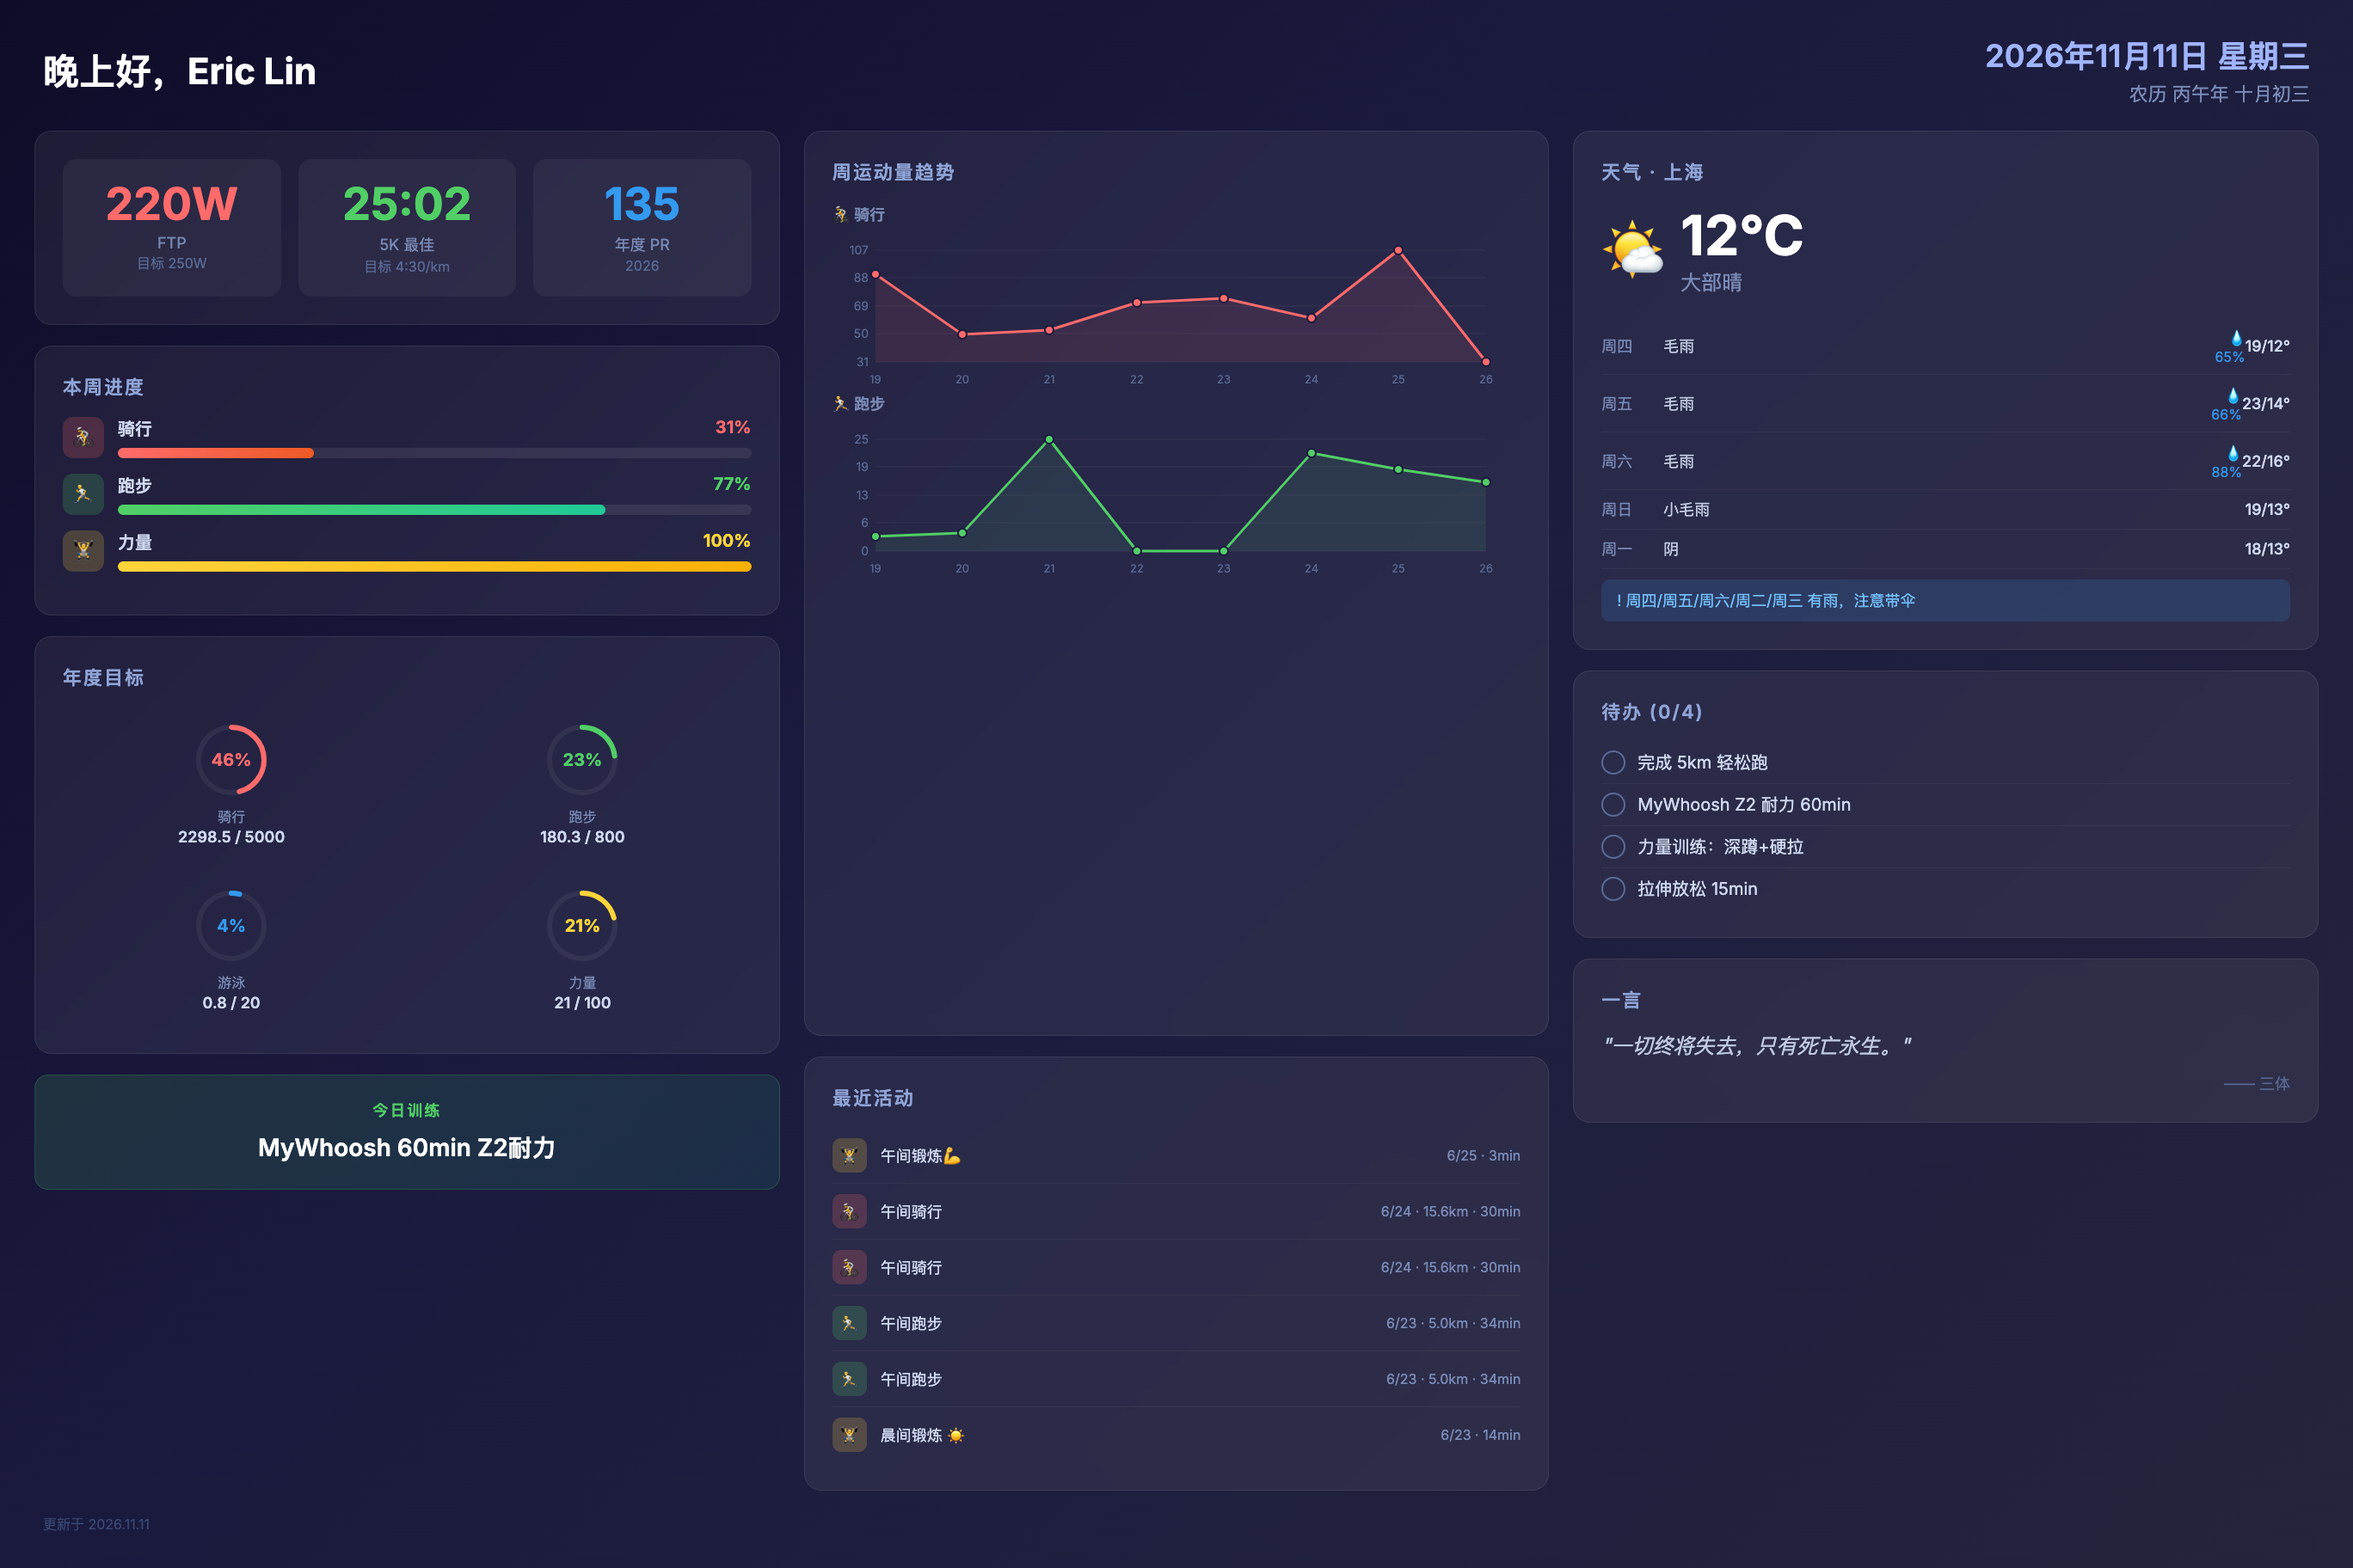
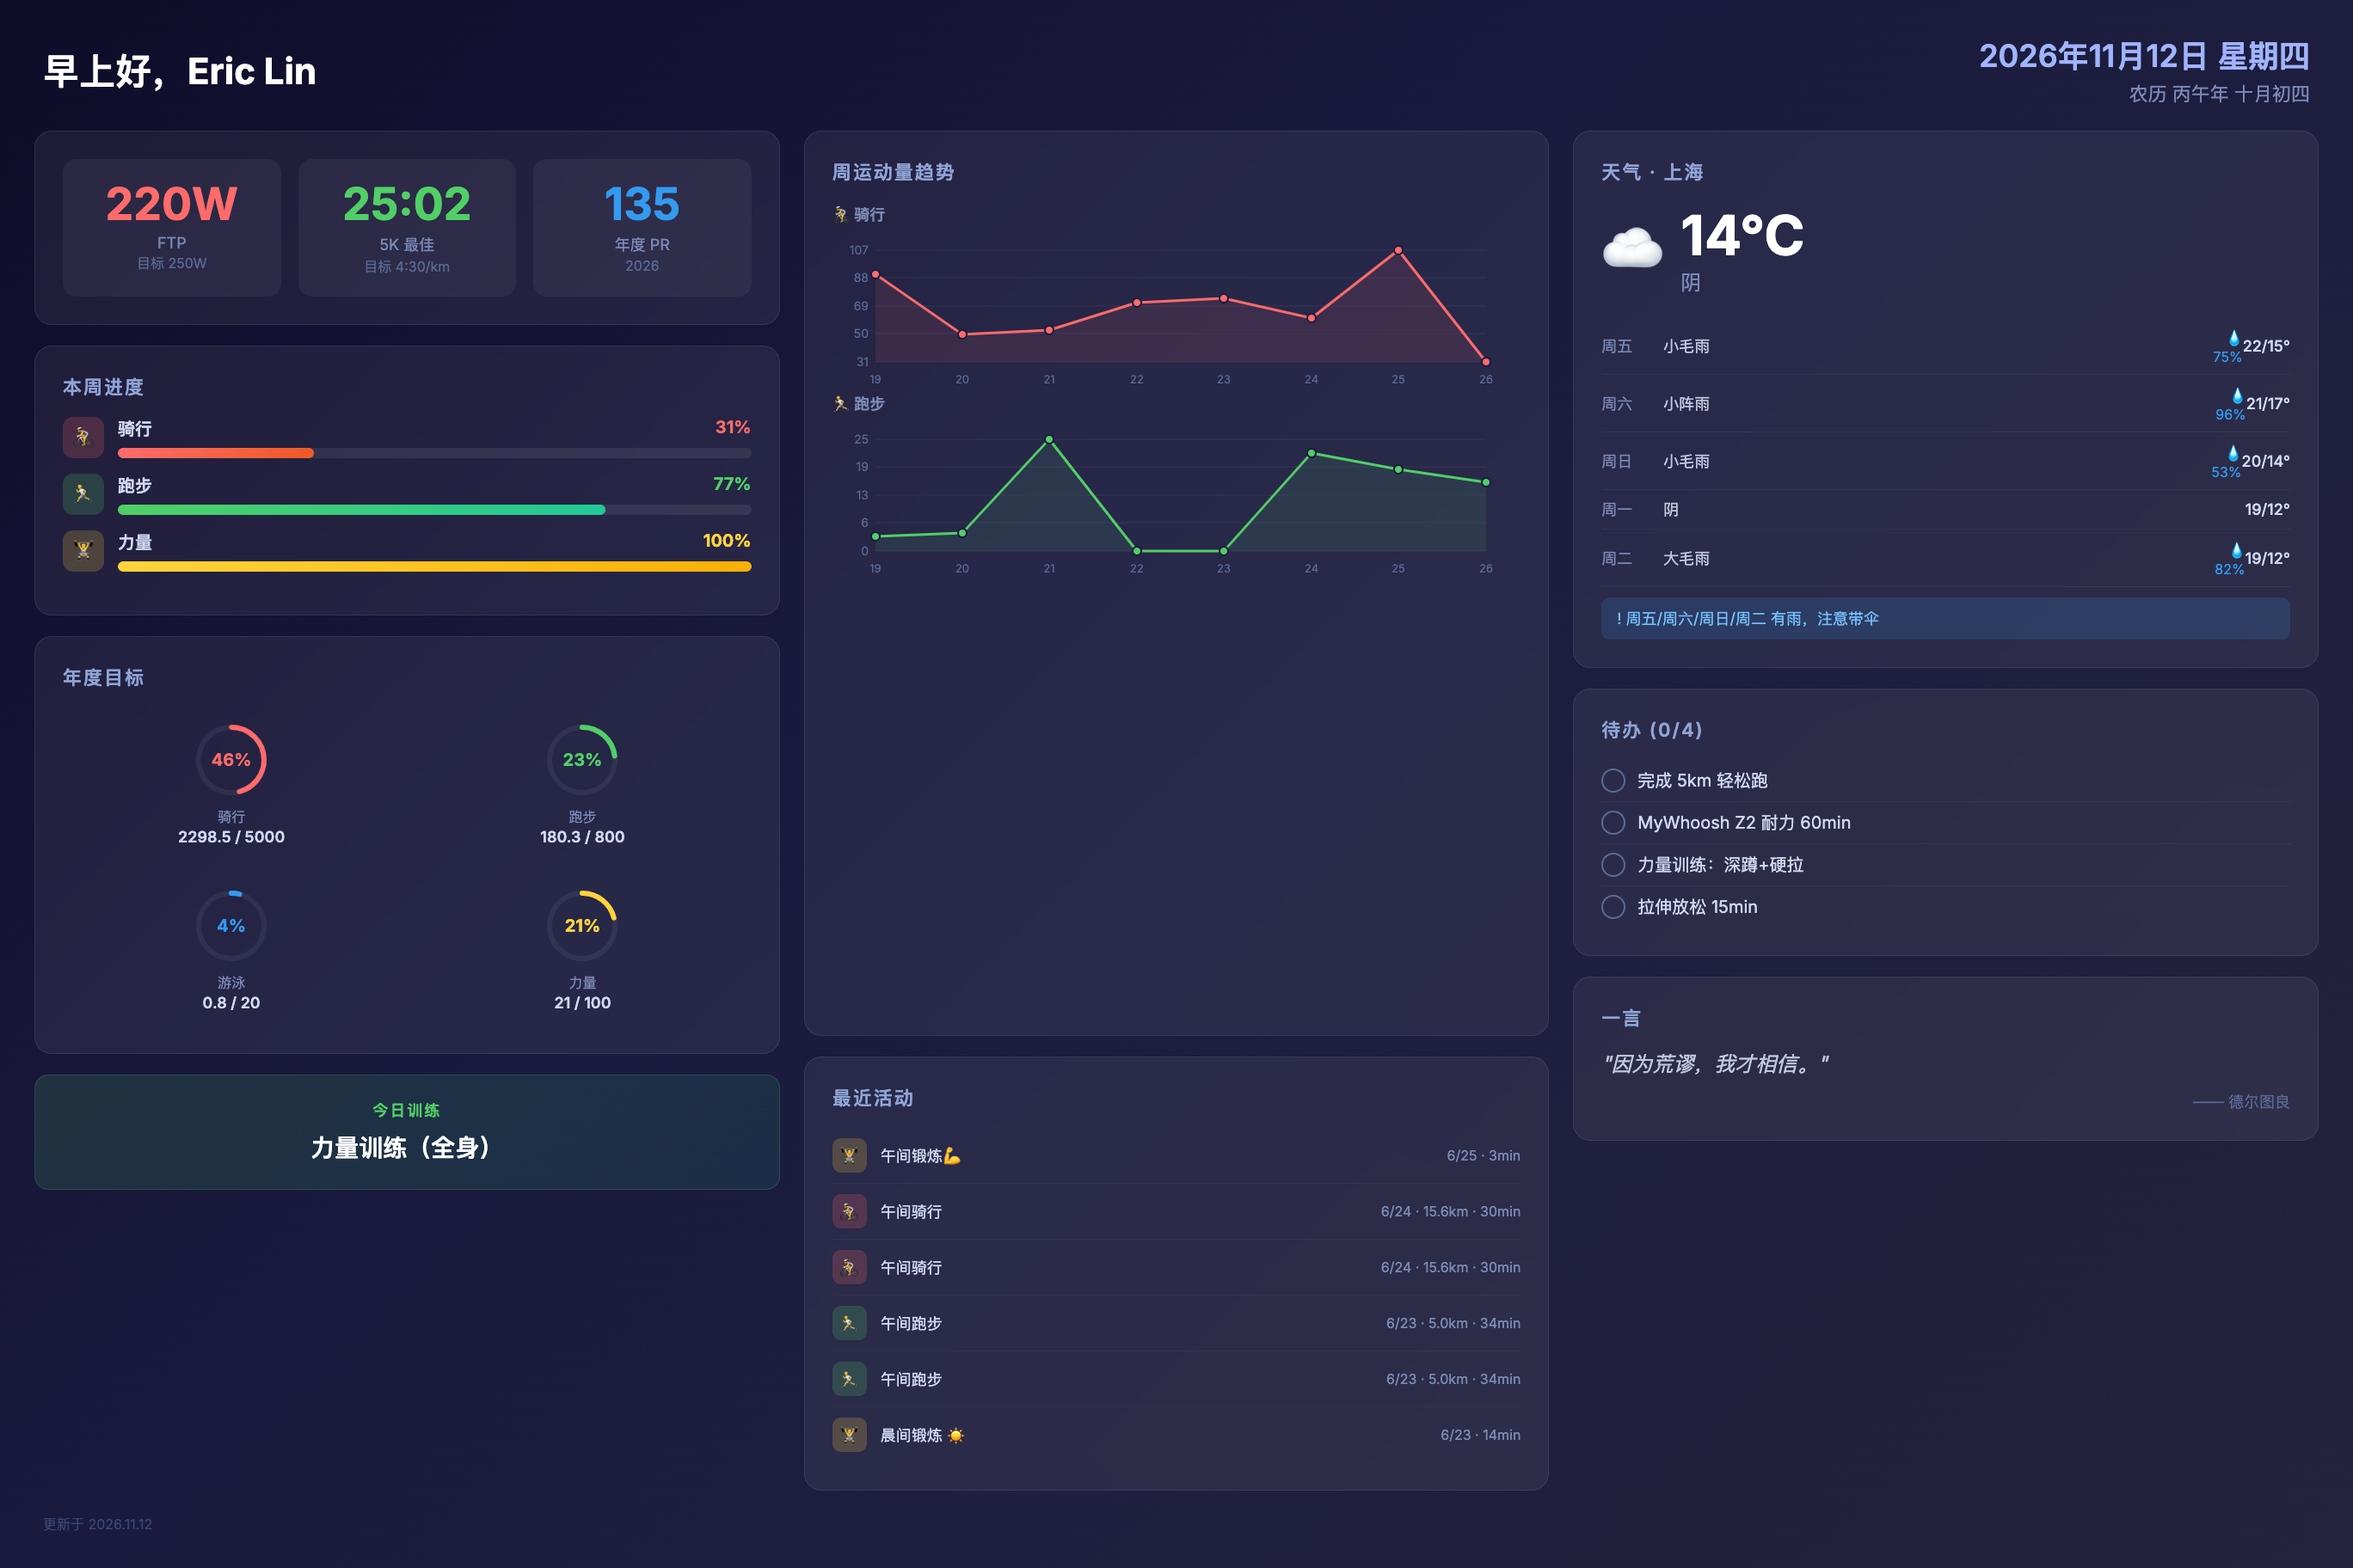
deploy: 2026-11-12-07:00

diff --git a/screensaver.html b/screensaver.html
@@ -490,13 +490,13 @@ html, body {
 <!-- ===== TOP BAR ===== -->
 <div class="top-bar">
   <div>
-    <div class="greeting">晚上好，Eric Lin</div>
+    <div class="greeting">早上好，Eric Lin</div>
     
   </div>
   <div class="date-info">
-    <div class="solar-date">2026年11月11日 星期三</div>
+    <div class="solar-date">2026年11月12日 星期四</div>
     
-    <div class="lunar-date">农历 丙午年 十月初三</div>
+    <div class="lunar-date">农历 丙午年 十月初四</div>
     
   </div>
 </div>
@@ -638,7 +638,7 @@ html, body {
   
   <div class="ai-today-card">
     <div class="ai-today-label">今日训练</div>
-    <div class="ai-today-text">MyWhoosh 60min Z2耐力</div>
+    <div class="ai-today-text">力量训练（全身）</div>
   </div>
   
 
@@ -784,52 +784,52 @@ html, body {
   <div class="card">
     <div class="card-title">天气 · 上海</div>
     <div class="weather-current">
-      <div class="weather-icon-big">🌤</div>
+      <div class="weather-icon-big">☁</div>
       <div>
-        <div class="weather-temp-big">12°C</div>
-        <div class="weather-desc">大部晴</div>
+        <div class="weather-temp-big">14°C</div>
+        <div class="weather-desc">阴</div>
       </div>
     </div>
     
     
     <div class="forecast-row">
-      <div class="forecast-day">周四</div>
-      <div class="forecast-desc">毛雨</div>
-      <div class="forecast-precip">💧65%</div>
-      <div class="forecast-range">19/12°</div>
-    </div>
-    
-    <div class="forecast-row">
       <div class="forecast-day">周五</div>
-      <div class="forecast-desc">毛雨</div>
-      <div class="forecast-precip">💧66%</div>
-      <div class="forecast-range">23/14°</div>
+      <div class="forecast-desc">小毛雨</div>
+      <div class="forecast-precip">💧75%</div>
+      <div class="forecast-range">22/15°</div>
     </div>
     
     <div class="forecast-row">
       <div class="forecast-day">周六</div>
-      <div class="forecast-desc">毛雨</div>
-      <div class="forecast-precip">💧88%</div>
-      <div class="forecast-range">22/16°</div>
+      <div class="forecast-desc">小阵雨</div>
+      <div class="forecast-precip">💧96%</div>
+      <div class="forecast-range">21/17°</div>
     </div>
     
     <div class="forecast-row">
       <div class="forecast-day">周日</div>
       <div class="forecast-desc">小毛雨</div>
-      <div class="forecast-precip"></div>
-      <div class="forecast-range">19/13°</div>
+      <div class="forecast-precip">💧53%</div>
+      <div class="forecast-range">20/14°</div>
     </div>
     
     <div class="forecast-row">
       <div class="forecast-day">周一</div>
       <div class="forecast-desc">阴</div>
       <div class="forecast-precip"></div>
-      <div class="forecast-range">18/13°</div>
+      <div class="forecast-range">19/12°</div>
+    </div>
+    
+    <div class="forecast-row">
+      <div class="forecast-day">周二</div>
+      <div class="forecast-desc">大毛雨</div>
+      <div class="forecast-precip">💧82%</div>
+      <div class="forecast-range">19/12°</div>
     </div>
     
     
     
-    <div class="rain-alert">! 周四/周五/周六/周二/周三 有雨，注意带伞</div>
+    <div class="rain-alert">! 周五/周六/周日/周二 有雨，注意带伞</div>
     
   </div>
   
@@ -878,9 +878,9 @@ html, body {
   
   <div class="card">
     <div class="card-title">一言</div>
-    <div class="quote-text">"一切终将失去，只有死亡永生。"</div>
+    <div class="quote-text">"因为荒谬，我才相信。"</div>
     
-    <div class="quote-from">—— 三体</div>
+    <div class="quote-from">—— 德尔图良</div>
     
   </div>
   
@@ -889,7 +889,7 @@ html, body {
 
 <!-- ===== BOTTOM BAR ===== -->
 <div class="bottom-bar">
-  <div class="update-time">更新于 2026.11.11</div>
+  <div class="update-time">更新于 2026.11.12</div>
 </div>
 
 </div>

diff --git a/life.html b/life.html
@@ -89,7 +89,7 @@ html, body {
 <table class="header-table">
   <tr>
     <td class="header-left">生活</td>
-    <td class="header-right">2026.11.11</td>
+    <td class="header-right">2026.11.12</td>
   </tr>
 </table>
 
@@ -137,67 +137,67 @@ html, body {
   <p class="section-title">☀ 天气 · 上海</p>
   <table class="weather-table">
     <tr>
-      <td class="weather-icon">*</td>
-      <td class="weather-temp">12°C</td>
-      <td class="weather-desc">大部晴</td>
+      <td class="weather-icon">~</td>
+      <td class="weather-temp">14°C</td>
+      <td class="weather-desc">阴</td>
     </tr>
   </table>
   
   <table class="forecast-table">
     
     <tr>
-      <td class="forecast-day">周四</td>
-      <td class="forecast-icon">.</td>
-      <td>毛雨</td>
-      <td class="forecast-range">19/12°C</td>
-    </tr>
-    
-    <tr>
       <td class="forecast-day">周五</td>
       <td class="forecast-icon">.</td>
-      <td>毛雨</td>
-      <td class="forecast-range">23/14°C</td>
+      <td>小毛雨</td>
+      <td class="forecast-range">22/15°C</td>
     </tr>
     
     <tr>
       <td class="forecast-day">周六</td>
       <td class="forecast-icon">.</td>
-      <td>毛雨</td>
-      <td class="forecast-range">22/16°C</td>
+      <td>小阵雨</td>
+      <td class="forecast-range">21/17°C</td>
     </tr>
     
     <tr>
       <td class="forecast-day">周日</td>
       <td class="forecast-icon">.</td>
       <td>小毛雨</td>
-      <td class="forecast-range">19/13°C</td>
+      <td class="forecast-range">20/14°C</td>
     </tr>
     
     <tr>
       <td class="forecast-day">周一</td>
       <td class="forecast-icon">~</td>
       <td>阴</td>
-      <td class="forecast-range">18/13°C</td>
+      <td class="forecast-range">19/12°C</td>
     </tr>
     
     <tr>
       <td class="forecast-day">周二</td>
       <td class="forecast-icon">.</td>
       <td>大毛雨</td>
-      <td class="forecast-range">19/10°C</td>
+      <td class="forecast-range">19/12°C</td>
     </tr>
     
     <tr>
       <td class="forecast-day">周三</td>
       <td class="forecast-icon">~</td>
       <td>阴</td>
-      <td class="forecast-range">14/3°C</td>
+      <td class="forecast-range">15/4°C</td>
+    </tr>
+    
+    <tr>
+      <td class="forecast-day">周四</td>
+      <td class="forecast-icon">~</td>
+      <td>阴</td>
+      <td class="forecast-range">10/2°C</td>
     </tr>
     
   </table>
   
   
-  <div class="rain-alert">! 周四/周五/周六/周二/周三 有雨，注意带伞</div>
+  <div class="rain-alert">! 周五/周六/周日/周二 有雨，注意带伞</div>
   
 </div>
 
@@ -207,10 +207,10 @@ html, body {
   <p class="section-title">📅 今日</p>
   <table class="data-table">
     <tr>
-      <td>2026年11月11日 星期二</td>
+      <td>2026年11月12日 星期三</td>
     </tr>
     <tr>
-      <td>农历丙午年 十月初三</td>
+      <td>农历丙午年 十月初四</td>
     </tr>
   </table>
 </div>
@@ -261,9 +261,9 @@ html, body {
 
 <div class="box">
   <p class="section-title">💬 一言</p>
-  <p class="quote-text">一切终将失去，只有死亡永生。</p>
+  <p class="quote-text">因为荒谬，我才相信。</p>
   
-  <p class="quote-from">—— 三体</p>
+  <p class="quote-from">—— 德尔图良</p>
   
 </div>
 

diff --git a/index.html b/index.html
@@ -74,7 +74,7 @@ html, body {
 <table class="header-table">
   <tr>
     <td class="header-left">Eric Lin · 运动</td>
-    <td class="header-right">2026.11.11</td>
+    <td class="header-right">2026.11.12</td>
   </tr>
 </table>
 
@@ -225,17 +225,10 @@ html, body {
 <div class="ai-plan">
   <div class="ai-plan-title">AI 训练建议</div>
   
-  <div class="ai-today">今日: 轻松跑 5km</div>
+  <div class="ai-today">今日: MyWhoosh 间歇 6×3min 高功率</div>
   
   
   <table class="ai-weekly">
-    
-    <tr>
-      <td class="day">周三</td>
-      
-      <td>轻松跑 5km</td>
-      
-    </tr>
     
     <tr>
       <td class="day">周四</td>
@@ -276,6 +269,13 @@ html, body {
       <td class="day">周二</td>
       
       <td>阈值训练 3×8min @260W</td>
+      
+    </tr>
+    
+    <tr>
+      <td class="day">周三</td>
+      
+      <td>轻松跑 5km</td>
       
     </tr>
     

diff --git a/work.html b/work.html
@@ -89,7 +89,7 @@ html, body {
 <table class="header-table">
   <tr>
     <td class="header-left">工作</td>
-    <td class="header-right">2026.11.11</td>
+    <td class="header-right">2026.11.12</td>
   </tr>
 </table>
 
